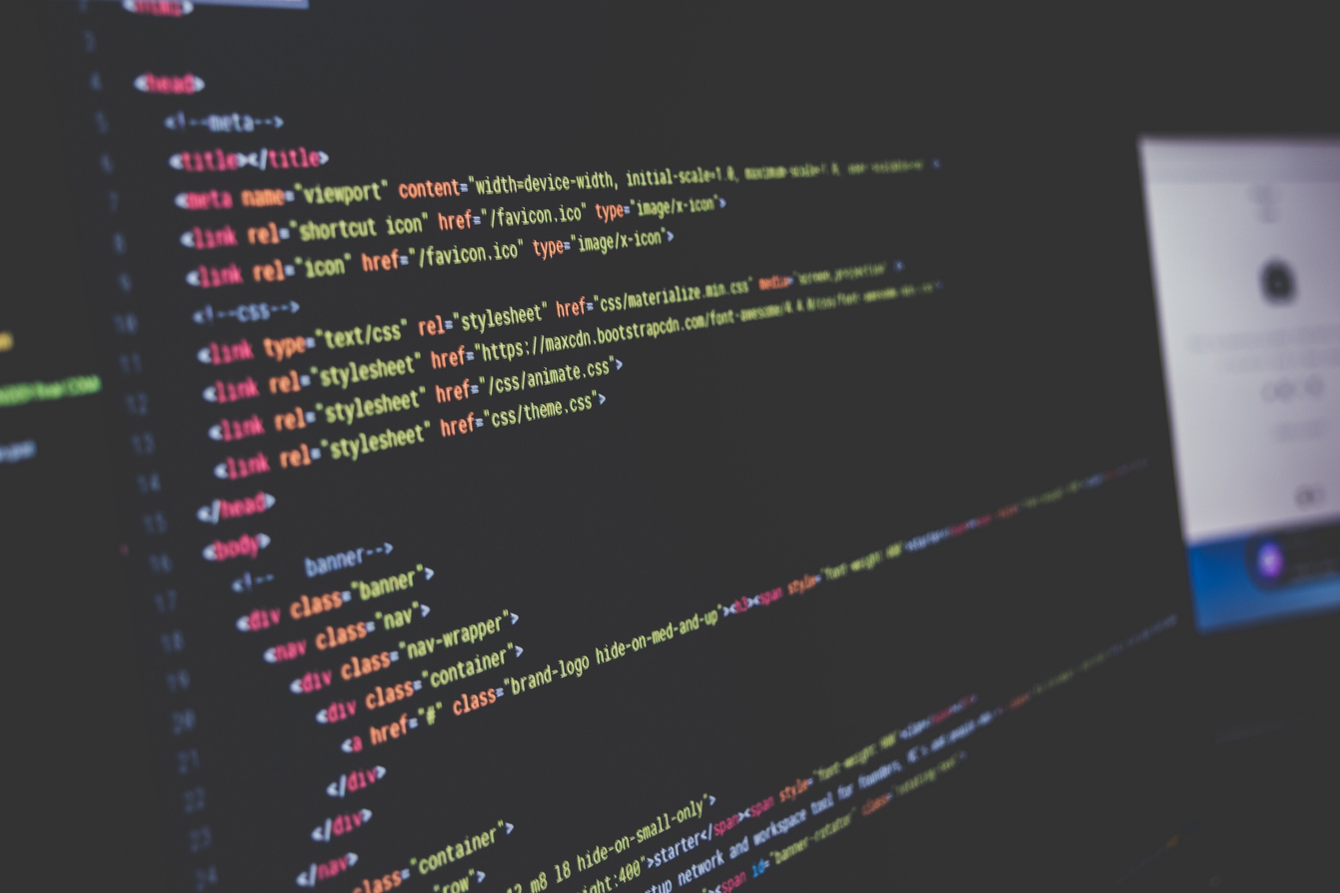
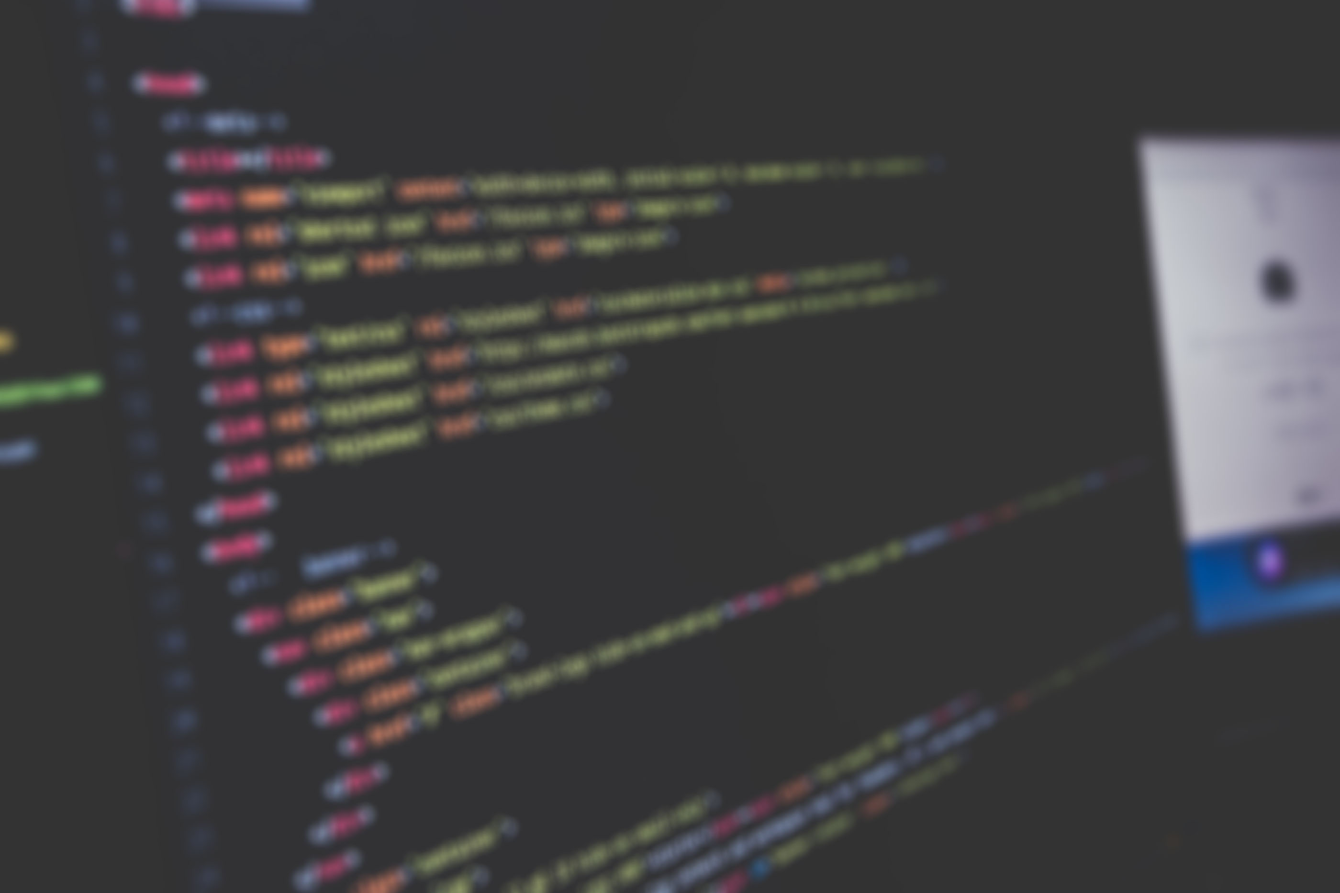
Enhancements
- Added collapse toggles for each section.
- Blurred some images to make text easier to read.

diff --git a/assets/css/styles.min.css b/assets/css/styles.min.css
@@ -1,1 +1,1 @@
-.article-clean{color:#56585b;background-color:#fff;font-family:Lora,serif;font-size:14px}.article-clean .intro{font-size:16px;margin:0 auto 30px}.article-clean .intro h1{font-size:32px;margin-bottom:15px;padding-top:20px;line-height:1.5;color:inherit;margin-top:20px}.article-clean .intro p{color:#929292;font-size:12px}.article-clean .intro p .by{font-style:italic}.article-clean .intro p .date{text-transform:uppercase;padding:4px 0 4px 10px;margin-left:10px;border-left:1px solid #ddd}.article-clean .intro p a{color:#333;text-transform:uppercase;padding-left:3px}.article-clean .intro img{margin-top:20px}.article-clean .text p{margin-bottom:20px;line-height:1.45}.article-clean .text h2{margin-top:28px;margin-bottom:20px;line-height:1.45;font-size:16px;font-weight:700;color:#333}.article-clean .text figure{text-align:center;margin-top:30px;margin-bottom:20px}.article-clean .text figure img{margin-bottom:12px;max-width:100%}.card-img-top{width:100%;height:15vw;object-fit:cover}#myFooter{padding-top:32px;flex:0 0 auto;-webkit-flex:0 0 auto}#myFooter .footer-copyright{margin-bottom:35px;text-align:center;color:#777}#myFooter ul{list-style-type:none;padding:0;margin-bottom:18px}#myFooter a{color:#282b2d;font-size:18px}#myFooter li{display:inline-block;margin:0 15px;line-height:2}#myFooter .footer-social{text-align:center;padding-top:25px;padding-bottom:25px;background-color:#eee}#myFooter .fa{font-size:36px;margin-right:15px;margin-left:20px;background-color:#fff;color:#d0d0d0;border-radius:51%;padding:10px;height:60px;width:60px;text-align:center;line-height:43px;text-decoration:none;transition:color .2s}#myFooter .fa-facebook:focus,#myFooter .fa-facebook:hover{color:#2b55ff}#myFooter .fa-google-plus:focus,#myFooter .fa-google-plus:hover{color:red}#myFooter .fa-twitter:focus,#myFooter .fa-twitter:hover{color:#00aced}#myFooter .fa-linkedin:focus,#myFooter .fa-linkedin:hover{color:#007bb6}.footer-basic{padding:40px 0;background-color:#fff;color:#4b4c4d;border-radius:10px;margin-bottom:20px}.footer-basic ul{padding:0;list-style:none;text-align:center;font-size:18px;line-height:1.6;margin-bottom:0}.footer-basic li{padding:0 10px}.footer-basic ul a,.footer-clean ul a{color:inherit;text-decoration:none;opacity:.8}.footer-basic ul a:hover,.footer-clean ul a:hover,.team-clean .social a:hover{opacity:1}.footer-basic .social{text-align:center;padding-bottom:25px}.footer-basic .social>a{font-size:24px;width:40px;height:40px;line-height:40px;display:inline-block;text-align:center;border-radius:50%;border:1px solid #ccc;margin:0 8px;color:inherit;opacity:.75}.footer-basic .social>a:hover,.footer-clean .item.social>a:hover{opacity:.9}.footer-basic .copyright{margin-top:15px;text-align:center;font-size:13px;color:#aaa;margin-bottom:0}@media (min-width:992px){.container,.container-lg,.container-md,.container-sm{max-width:960px}}@media (min-width:576px){.container,.container-sm{max-width:540px}}.footer-clean{padding:50px 0;background-color:#fff;color:#4b4c4d}.footer-clean h3{margin-top:0;margin-bottom:12px;font-weight:700;font-size:16px}.footer-clean ul{padding:0;list-style:none;line-height:1.6;font-size:14px;margin-bottom:0}.footer-clean .item.social{text-align:right}@media (max-width:768px){.footer-clean .item.social{text-align:center}}.footer-clean .item.social>a{font-size:24px;width:40px;height:40px;line-height:40px;display:inline-block;text-align:center;border-radius:50%;border:1px solid #ccc;margin-left:10px;margin-top:22px;color:inherit;opacity:.75}.footer-clean .copyright{margin-top:14px;margin-bottom:0;font-size:13px;opacity:.6}.navigation-clean{background:#fff;padding-top:.75rem;padding-bottom:.75rem;color:#333;border-radius:0;box-shadow:none;border:none;margin-bottom:0}.navigation-clean .navbar-brand{font-weight:700;color:inherit}.navigation-clean .navbar-brand:hover{color:#222}.navigation-clean.navbar-dark .navbar-brand:hover{color:#f0f0f0}.navigation-clean .navbar-brand img{height:100%;display:inline-block;margin-right:10px;width:auto}.navigation-clean .navbar-toggler{border-color:#ddd;color:#888}.navigation-clean .navbar-toggler:focus,.navigation-clean .navbar-toggler:hover{background:0 0}.navigation-clean.navbar-dark .navbar-toggler{border-color:#555;color:#eee}.navigation-clean .form-inline,.navigation-clean .navbar-collapse{border-top-color:#ddd}.navigation-clean.navbar-dark .form-inline,.navigation-clean.navbar-dark .navbar-collapse{border-top-color:#333}.navigation-clean .navbar-nav>.active>a,.navigation-clean .navbar-nav>.show>a{background:0 0;box-shadow:none}.navigation-clean.navbar-dark .navbar-nav a.active,.navigation-clean.navbar-dark .navbar-nav a.active:focus,.navigation-clean.navbar-dark .navbar-nav a.active:hover,.navigation-clean.navbar-light .navbar-nav .nav-link.active,.navigation-clean.navbar-light .navbar-nav .nav-link.active:focus,.navigation-clean.navbar-light .navbar-nav .nav-link.active:hover{color:#8f8f8f;box-shadow:none;background:0 0;pointer-events:none}.navigation-clean.navbar .navbar-nav .nav-link{padding-left:18px;padding-right:18px}.navigation-clean.navbar-light .navbar-nav .nav-link{color:#465765}.navigation-clean.navbar-light .navbar-nav .nav-link:focus,.navigation-clean.navbar-light .navbar-nav .nav-link:hover{color:#37434d!important;background-color:transparent}.navigation-clean .navbar-nav>li>.dropdown-menu{margin-top:-5px;box-shadow:none;background-color:#fff;border-radius:2px}@media (min-width:768px){.article-clean .text p{font-size:16px}.article-clean .text h2{font-size:20px}.navigation-clean{padding-top:1rem;padding-bottom:1rem}.navigation-clean .navbar-nav .show .dropdown-menu{box-shadow:0 4px 8px rgba(0,0,0,.1)}}.navigation-clean .dropdown-menu .dropdown-item,.navigation-clean .dropdown-menu .dropdown-item:focus{line-height:2;color:#37434d}.navigation-clean .dropdown-menu .dropdown-item:focus,.navigation-clean .dropdown-menu .dropdown-item:hover{background:#eee;color:inherit}.navigation-clean.navbar-dark{background-color:#1f2021;color:#fff}.navigation-clean.navbar-dark .navbar-nav .nav-link{color:#dfe8ee}.navigation-clean.navbar-dark .navbar-nav .nav-link:focus,.navigation-clean.navbar-dark .navbar-nav .nav-link:hover{color:#fff;background-color:transparent}.navigation-clean.navbar-dark .navbar-nav>li>.dropdown-menu{background-color:#1f2021}.navigation-clean.navbar-dark .dropdown-menu .dropdown-item,.navigation-clean.navbar-dark .dropdown-menu .dropdown-item:focus{color:#f2f5f8}.navigation-clean.navbar-dark .dropdown-menu .dropdown-item:focus,.navigation-clean.navbar-dark .dropdown-menu .dropdown-item:hover{background:#363739}.projects-horizontal,.team-clean{color:#313437;background-color:#fff}.projects-horizontal p,.team-clean p{color:#7d8285}.projects-horizontal h2,.team-clean h2{font-weight:700;margin-bottom:40px;padding-top:40px;color:inherit}.projects-horizontal .intro{font-size:16px;max-width:500px;margin:0 auto 10px}.projects-horizontal .projects,.team-clean .people{padding-bottom:40px}.projects-horizontal .item{padding-top:60px;min-height:160px}.projects-horizontal .item .name{font-size:18px;font-weight:700;margin-top:10px;margin-bottom:15px;color:inherit}@media (max-width:991px){.footer-clean .item.social>a{margin-top:40px}.projects-horizontal .item .name{margin-top:22px}}.projects-horizontal .item .description{font-size:15px;margin-bottom:0}.list-inline{text-align:center}html{scroll-behavior:smooth}@media (max-width:767px){.footer-clean .item{text-align:center;padding-bottom:20px}.footer-clean .item.social>a{margin-top:10px}.navigation-clean .navbar-nav .show .dropdown-menu .dropdown-item{color:#37434d;padding-top:.8rem;padding-bottom:.8rem;line-height:1}.navigation-clean.navbar-dark .navbar-nav .show .dropdown-menu .dropdown-item{color:#fff}.projects-horizontal h2,.team-clean h2{margin-bottom:25px;padding-top:25px;font-size:24px}.projects-horizontal .item{padding-top:40px;min-height:160px}}.team-clean .intro{font-size:16px;max-width:500px;margin:0 auto}.team-clean .intro p{margin-bottom:0}.team-clean .item{text-align:center;padding-top:50px}.team-clean .item .name{font-weight:700;margin-top:28px;margin-bottom:8px;color:inherit}.team-clean .item .title{text-transform:uppercase;font-weight:700;color:#d0d0d0;letter-spacing:2px;font-size:13px}.team-clean .item .description{font-size:15px;margin-top:15px;margin-bottom:20px}.team-clean .item img{max-width:160px}.team-clean .social{font-size:18px;color:#a2a8ae}.team-clean .social a{color:inherit;margin:0 10px;display:inline-block;opacity:.7}@media (min-width:1200px){.container,.container-lg,.container-md,.container-sm,.container-xl{max-width:1140px}}
+.article-clean{color:#56585b;background-color:#fff;font-family:Lora,serif;font-size:14px}.article-clean .intro{font-size:16px;margin:0 auto 30px}.article-clean .intro h1{font-size:32px;margin-bottom:15px;padding-top:20px;line-height:1.5;color:inherit;margin-top:20px}.article-clean .intro p{color:#929292;font-size:12px}.article-clean .intro p .by{font-style:italic}.article-clean .intro p .date{text-transform:uppercase;padding:4px 0 4px 10px;margin-left:10px;border-left:1px solid #ddd}.article-clean .intro p a{color:#333;text-transform:uppercase;padding-left:3px}.article-clean .intro img{margin-top:20px}.article-clean .text p{margin-bottom:20px;line-height:1.45}.article-clean .text h2{margin-top:28px;margin-bottom:20px;line-height:1.45;font-size:16px;font-weight:700;color:#333}.article-clean .text figure{text-align:center;margin-top:30px;margin-bottom:20px}.article-clean .text figure img{margin-bottom:12px;max-width:100%}.card-img-top{width:100%;height:15vw;object-fit:cover}#myFooter{padding-top:32px;flex:0 0 auto;-webkit-flex:0 0 auto}#myFooter .footer-copyright{margin-bottom:35px;text-align:center;color:#777}#myFooter ul{list-style-type:none;padding:0;margin-bottom:18px}#myFooter a{color:#282b2d;font-size:18px}#myFooter li{display:inline-block;margin:0 15px;line-height:2}#myFooter .footer-social{text-align:center;padding-top:25px;padding-bottom:25px;background-color:#eee}#myFooter .fa{font-size:36px;margin-right:15px;margin-left:20px;background-color:#fff;color:#d0d0d0;border-radius:51%;padding:10px;height:60px;width:60px;text-align:center;line-height:43px;text-decoration:none;transition:color .2s}#myFooter .fa-facebook:focus,#myFooter .fa-facebook:hover{color:#2b55ff}#myFooter .fa-google-plus:focus,#myFooter .fa-google-plus:hover{color:red}#myFooter .fa-twitter:focus,#myFooter .fa-twitter:hover{color:#00aced}#myFooter .fa-linkedin:focus,#myFooter .fa-linkedin:hover{color:#007bb6}.footer-basic{padding:40px 0;background-color:#fff;color:#4b4c4d;border-radius:10px;margin-bottom:20px}.footer-basic ul{padding:0;list-style:none;text-align:center;font-size:18px;line-height:1.6;margin-bottom:0}.footer-basic li{padding:0 10px}.footer-basic ul a,.footer-clean ul a{color:inherit;text-decoration:none;opacity:.8}.footer-basic ul a:hover,.footer-clean ul a:hover,.team-clean .social a:hover{opacity:1}.footer-basic .social{text-align:center;padding-bottom:25px}.footer-basic .social>a{font-size:24px;width:40px;height:40px;line-height:40px;display:inline-block;text-align:center;border-radius:50%;border:1px solid #ccc;margin:0 8px;color:inherit;opacity:.75}.footer-basic .social>a:hover,.footer-clean .item.social>a:hover{opacity:.9}.footer-basic .copyright{margin-top:15px;text-align:center;font-size:13px;color:#aaa;margin-bottom:0}@media (min-width:992px){.container,.container-lg,.container-md,.container-sm{max-width:960px}}@media (min-width:576px){.container,.container-sm{max-width:540px}}.footer-clean{padding:50px 0;background-color:#fff;color:#4b4c4d}.footer-clean h3{margin-top:0;margin-bottom:12px;font-weight:700;font-size:16px}.footer-clean ul{padding:0;list-style:none;line-height:1.6;font-size:14px;margin-bottom:0}.footer-clean .item.social{text-align:right}@media (max-width:768px){.footer-clean .item.social{text-align:center}}.footer-clean .item.social>a{font-size:24px;width:40px;height:40px;line-height:40px;display:inline-block;text-align:center;border-radius:50%;border:1px solid #ccc;margin-left:10px;margin-top:22px;color:inherit;opacity:.75}.footer-clean .copyright{margin-top:14px;margin-bottom:0;font-size:13px;opacity:.6}.navigation-clean{background:#fff;padding-top:.75rem;padding-bottom:.75rem;color:#333;border-radius:0;box-shadow:none;border:none;margin-bottom:0}.navigation-clean .navbar-brand{font-weight:700;color:inherit}.navigation-clean .navbar-brand:hover{color:#222}.navigation-clean.navbar-dark .navbar-brand:hover{color:#f0f0f0}.navigation-clean .navbar-brand img{height:100%;display:inline-block;margin-right:10px;width:auto}.navigation-clean .navbar-toggler{border-color:#ddd;color:#888}.navigation-clean .navbar-toggler:focus,.navigation-clean .navbar-toggler:hover{background:0 0}.navigation-clean.navbar-dark .navbar-toggler{border-color:#555;color:#eee}.navigation-clean .form-inline,.navigation-clean .navbar-collapse{border-top-color:#ddd}.navigation-clean.navbar-dark .form-inline,.navigation-clean.navbar-dark .navbar-collapse{border-top-color:#333}.navigation-clean .navbar-nav>.active>a,.navigation-clean .navbar-nav>.show>a{background:0 0;box-shadow:none}.navigation-clean.navbar-dark .navbar-nav a.active,.navigation-clean.navbar-dark .navbar-nav a.active:focus,.navigation-clean.navbar-dark .navbar-nav a.active:hover,.navigation-clean.navbar-light .navbar-nav .nav-link.active,.navigation-clean.navbar-light .navbar-nav .nav-link.active:focus,.navigation-clean.navbar-light .navbar-nav .nav-link.active:hover{color:#8f8f8f;box-shadow:none;background:0 0;pointer-events:none}.navigation-clean.navbar .navbar-nav .nav-link{padding-left:18px;padding-right:18px}.navigation-clean.navbar-light .navbar-nav .nav-link{color:#465765}.navigation-clean.navbar-light .navbar-nav .nav-link:focus,.navigation-clean.navbar-light .navbar-nav .nav-link:hover{color:#37434d!important;background-color:transparent}.navigation-clean .navbar-nav>li>.dropdown-menu{margin-top:-5px;box-shadow:none;background-color:#fff;border-radius:2px}@media (min-width:768px){.article-clean .text p{font-size:16px}.article-clean .text h2{font-size:20px}.navigation-clean{padding-top:1rem;padding-bottom:1rem}.navigation-clean .navbar-nav .show .dropdown-menu{box-shadow:0 4px 8px rgba(0,0,0,.1)}}.navigation-clean .dropdown-menu .dropdown-item,.navigation-clean .dropdown-menu .dropdown-item:focus{line-height:2;color:#37434d}.navigation-clean .dropdown-menu .dropdown-item:focus,.navigation-clean .dropdown-menu .dropdown-item:hover{background:#eee;color:inherit}.navigation-clean.navbar-dark{background-color:#1f2021;color:#fff}.navigation-clean.navbar-dark .navbar-nav .nav-link{color:#dfe8ee}.navigation-clean.navbar-dark .navbar-nav .nav-link:focus,.navigation-clean.navbar-dark .navbar-nav .nav-link:hover{color:#fff;background-color:transparent}.navigation-clean.navbar-dark .navbar-nav>li>.dropdown-menu{background-color:#1f2021}.navigation-clean.navbar-dark .dropdown-menu .dropdown-item,.navigation-clean.navbar-dark .dropdown-menu .dropdown-item:focus{color:#f2f5f8}.navigation-clean.navbar-dark .dropdown-menu .dropdown-item:focus,.navigation-clean.navbar-dark .dropdown-menu .dropdown-item:hover{background:#363739}.projects-horizontal,.team-clean{color:#313437;background-color:#fff}.projects-horizontal p,.team-clean p{color:#7d8285}.projects-horizontal h2,.team-clean h2{font-weight:700;margin-bottom:40px;padding-top:40px;color:inherit}.projects-horizontal .intro{font-size:16px;max-width:500px;margin:0 auto 10px}.projects-horizontal .projects,.team-clean .people{padding-bottom:40px}.projects-horizontal .item{padding-top:60px;min-height:160px}.projects-horizontal .item .name{font-size:18px;font-weight:700;margin-top:10px;margin-bottom:15px;color:inherit}@media (max-width:991px){.footer-clean .item.social>a{margin-top:40px}.projects-horizontal .item .name{margin-top:22px}}.projects-horizontal .item .description{font-size:15px;margin-bottom:0}.list-inline{text-align:center}html{scroll-behavior:smooth}@media (max-width:767px){.footer-clean .item{text-align:center;padding-bottom:20px}.footer-clean .item.social>a{margin-top:10px}.navigation-clean .navbar-nav .show .dropdown-menu .dropdown-item{color:#37434d;padding-top:.8rem;padding-bottom:.8rem;line-height:1}.navigation-clean.navbar-dark .navbar-nav .show .dropdown-menu .dropdown-item{color:#fff}.projects-horizontal h2,.team-clean h2{margin-bottom:25px;padding-top:25px;font-size:24px}.projects-horizontal .item{padding-top:40px;min-height:160px}}.team-clean .intro{font-size:16px;max-width:500px;margin:0 auto}.team-clean .intro p{margin-bottom:0}.team-clean .item{text-align:center;padding-top:50px}.team-clean .item .name{font-weight:700;margin-top:28px;margin-bottom:8px;color:inherit}.team-clean .item .title{text-transform:uppercase;font-weight:700;color:#d0d0d0;letter-spacing:2px;font-size:13px}.team-clean .item .description{font-size:15px;margin-top:15px;margin-bottom:20px}.team-clean .item img{max-width:160px}.team-clean .social{font-size:18px;color:#a2a8ae}.team-clean .social a{color:inherit;margin:0 10px;display:inline-block;opacity:.7}@media (min-width:1200px){.container,.container-lg,.container-md,.container-sm,.container-xl{max-width:1140px}}input:checked+.slider{background-color:#2196f3}input:checked+.slider:before{-webkit-transform:translateX(26px);-ms-transform:translateX(26px);transform:translateX(26px)}.switch{position:relative;display:inline-block;width:60px;height:34px}.switch input{display:none}.slider{position:absolute;cursor:pointer;top:0;left:0;right:0;bottom:0;background-color:#ccc;-webkit-transition:.4s;transition:.4s}.slider:before{position:absolute;content:"";height:26px;width:26px;left:4px;bottom:4px;background-color:#fff;-webkit-transition:.4s;transition:.4s}input:focus+.slider{box-shadow:0 0 1px #2196f3}.slider.round{border-radius:34px}.slider.round:before{border-radius:50%}

diff --git a/index.html b/index.html
@@ -23,17 +23,18 @@
     <link rel="stylesheet" href="https://fonts.googleapis.com/css?family=Lora">
     <link rel="stylesheet" href="assets/fonts/font-awesome.min.css">
     <link rel="stylesheet" href="assets/css/styles.min.css">
+    <link rel="stylesheet" href="https://cdn.jsdelivr.net/gh/gitbrent/bootstrap4-toggle@3.5.0/css/bootstrap4-toggle.min.css">
     <link rel="stylesheet" href="https://cdnjs.cloudflare.com/ajax/libs/animate.css/3.5.2/animate.min.css">
 </head>
 
 <body style="background-color: rgb(232,232,232);">
     <div class="container" style="padding-right: 0px;padding-left: 0px;">
-        <nav class="navbar navbar-light navbar-expand-xl bg-light navigation-clean" style="border-radius: 10px;">
+        <nav class="navbar navbar-light navbar-expand-xl bg-light navigation-clean" style="border-radius: 10px;margin-top: 10px;">
             <div class="container"><a class="navbar-brand" href="#">Jake Humphreys</a><button data-toggle="collapse" class="navbar-toggler" data-target="#navcol-1"><span class="sr-only">Toggle navigation</span><span class="navbar-toggler-icon"></span></button>
                 <div class="collapse navbar-collapse"
                     id="navcol-1">
                     <ul class="nav navbar-nav ml-auto">
-                        <li class="nav-item" role="presentation"><a class="nav-link active" href="#">Home</a></li>
+                        <li class="nav-item" role="presentation"><a class="nav-link active" href="#home">Home</a></li>
                         <li class="nav-item" role="presentation"></li>
                         <li class="nav-item" role="presentation"><a class="nav-link" href="#workExperience">Work Experience</a></li>
                         <li class="nav-item" role="presentation"><a class="nav-link" href="#skills">Skills</a></li>
@@ -43,37 +44,43 @@
                 </div>
             </div>
         </nav>
-        <div class="jumbotron text-center text-light" style="background: url(assets/img/blurredCode2.jpg);background-size: cover;margin-top: 20px;padding-right: 0px;padding-left: 0px;"><img class="img-thumbnail" src="assets/img/110158651_3415583811796938_8004684361192355891_o.jpg" style="width: 200px;">
+        <div class="jumbotron text-center text-light" id="home" style="background: url(assets/img/blurredCode2.jpg);background-size: cover;margin-top: 20px;padding-right: 0px;padding-left: 0px;"><img class="img-thumbnail" src="assets/img/110158651_3415583811796938_8004684361192355891_o.jpg" style="width: 200px;">
             <h1>Hi, I'm Jake</h1>
             <p>A software engineering student and developer from Stoke on Trent, England.</p>
             <p></p>
         </div>
     </div>
     <div class="team-clean" style="background-color: rgb(232,232,232);">
-        <div class="container text-body" id="workExperience" style="background: url(assets/img/blurredLaptop.jpg);border-radius: 10px;/*max-width: none;*//*padding-right: 15px;*//*padding-left: 15px;*/">
+        <div class="container text-body" id="workExperience" style="background: url(assets/img/blurredLaptop.jpg);border-radius: 10px;/*max-width: none;*//*padding-right: 15px;*//*padding-left: 15px;*/background-size: cover;margin-bottom: 20px;">
             <div class="intro">
                 <h2 class="text-center text-white" style="margin-bottom: 0px;">Work Experience</h2>
             </div>
             <hr style="color: #f2f5f8;background-color: #f0f0f0;">
-            <div class="row people" style="background-color: #d0d0d0;padding-top: 20px;border-radius: 0;border-bottom-left-radius: 10px;border-bottom-right-radius: 10px;margin-bottom: 40px;">
+            <p style="margin-bottom: 5px;color: #ffffff;">Show content<input type="checkbox" checked="" data-toggle="collapse" data-onstyle="success" data-offstyle="danger" data-on="Yes" data-off="No" data-target="#workExperienceContent" style="margin-left: 10px;"></p>
+            <div class="row people collapse show"
+                id="workExperienceContent" style="background-color: #d0d0d0;padding-top: 20px;border-radius: 0;border-bottom-left-radius: 10px;border-bottom-right-radius: 10px;margin-bottom: 40px;">
                 <div class="col-md-6 col-lg-4 offset-md-3 offset-lg-4 offset-xl-4 item" data-bs-hover-animate="pulse" style="background-color: #ffffff;border-radius: 10px;box-shadow: 5px 5px 7px rgb(140,142,143);"><img class="img-thumbnail" src="assets/img/fhl_logo.png">
                     <h3 class="name">FHL Cloud Solutions, Crewe</h3>
                     <p class="text-primary title">Developer</p>
-                    <p class="text-center description" style="text-align: center;">At FHL Cloud Solutions my responsibilities included:<br><br>•&nbsp;Development for NetSuite, A cloud based ERP.<br>• Scheduling and performing product releases.<br>• Proof of concept development in Xamarin.<br>• ISO 9001 and ISO 27001
-                        auditing.<br>• Support case review and closure.<br>• Implementing enhancement requests.<br></p><a href="https://www.fhl.co.uk" style="text-align: center;margin-bottom: 10px;" target="_blank"><i class="fa fa-external-link" style="font-size: 20px;color: rgb(189,191,193);"></i></a></div>
+                    <p class="text-center description" style="text-align: center;">At FHL Cloud Solutions my responsibilities included:<br><br>•&nbsp;Development for NetSuite, A cloud based ERP.<br>•&nbsp; Back-end development in JavaScript<br>• Scheduling and performing product releases.<br>• Proof of concept development
+                        in Xamarin.<br>• ISO 9001 and ISO 27001 auditing.<br>• Support case review and closure.<br>• Implementing enhancement requests.<br>• Product Documentation.<br></p><a href="https://www.fhl.co.uk" style="text-align: center;margin-bottom: 10px;"
+                        target="_blank"><i class="fa fa-external-link" style="font-size: 20px;color: rgb(189,191,193);"></i></a></div>
+                <div class="clearfix"></div>
             </div>
         </div>
     </div>
-    <div class="container text-body" id="skills" style="border-radius: 10px;background: url(assets/img/blurredKeyboard.png);background-size: cover;">
+    <div class="container text-body" id="skills" style="border-radius: 10px;background: url(assets/img/blurredKeyboard.png);background-size: cover;margin-bottom: 20px;">
         <div class="intro">
             <h2 class="text-center text-white" style="max-width: 1110px;"><br>Skills</h2>
         </div>
         <hr style="color: #f2f5f8;background-color: #f0f0f0;">
-        <div class="row people" style="background-color: #d0d0d0;padding-top: 20px;border-radius: 0;border-bottom-left-radius: 10px;border-bottom-right-radius: 10px;margin-bottom: 40px;text-align: center;">
-            <div class="col-xl-3" data-bs-hover-animate="pulse" style="margin-bottom: 20px;text-align: center;background-color: #ffffff;border-radius: 10px;padding: 10px;margin-left: 46px;margin-right: 46px;box-shadow: 5px 5px 7px rgb(140,142,143);"><img class="rounded img-fluid" src="assets/img/bootstrap.png" width="100" height="100">
+        <p style="margin-bottom: 5px;color: #ffffff;">Show content<input type="checkbox" checked="" data-toggle="collapse" data-onstyle="success" data-offstyle="danger" data-on="Yes" data-off="No" data-target="#skillsContent" style="margin-left: 10px;"></p>
+        <div class="row people collapse show" id="skillsContent"
+            style="background-color: #d0d0d0;padding-top: 20px;border-radius: 0;border-bottom-left-radius: 10px;border-bottom-right-radius: 10px;margin-bottom: 40px;text-align: center;">
+            <div class="col-xl-3" data-bs-hover-animate="pulse" style="margin-bottom: 20px;text-align: center;background-color: #ffffff;border-radius: 10px;padding: 10px;margin-left: 46px;box-shadow: 5px 5px 7px rgb(140,142,143);margin-right: 46px;"><img class="rounded img-fluid" src="assets/img/bootstrap.png" width="100" height="100">
                 <p class="lead text-capitalize shadow" style="margin-top: 10px;background-color: #f5f5f5;border-radius: 10px;"><strong>Bootstrap 4</strong></p>
             </div>
-            <div class="col-xl-3" data-bs-hover-animate="pulse" style="margin-bottom: 20px;text-align: center;background-color: #ffffff;border-radius: 10px;padding: 10px;margin-left: 46px;margin-right: 46px;box-shadow: 5px 5px 7px rgb(140,142,143);"><img class="rounded img-fluid" src="assets/img/html5.png" width="100" height="100">
+            <div class="col-xl-3" data-bs-hover-animate="pulse" style="margin-bottom: 20px;text-align: center;background-color: #ffffff;border-radius: 10px;padding: 10px;margin-right: 46px;box-shadow: 5px 5px 7px rgb(140,142,143);margin-left: 46px;"><img class="rounded img-fluid" src="assets/img/html5.png" width="100" height="100">
                 <p class="lead text-capitalize shadow" style="margin-top: 10px;background-color: #f5f5f5;border-radius: 10px;"><strong>HTML5</strong></p>
             </div>
             <div class="col-xl-3" data-bs-hover-animate="pulse" style="margin-bottom: 20px;text-align: center;background-color: #ffffff;border-radius: 10px;padding: 10px;margin-left: 46px;margin-right: 46px;box-shadow: 5px 5px 7px rgb(140,142,143);"><img class="rounded img-fluid" src="assets/img/css3.png" width="100" height="100">
@@ -99,12 +106,14 @@
             </div>
         </div>
     </div>
-    <div class="container text-body" id="projects" style="border-radius: 10px;background: url(assets/img/blurredCode3.png) top / cover;">
+    <div class="container text-body" id="projects" style="border-radius: 10px;background: url(assets/img/blurredCode3.png) top / cover;margin-bottom: 20px;">
         <div class="intro">
             <h2 class="text-center text-white" style="max-width: 1110px;"><br>Projects</h2>
         </div>
         <hr style="color: #f2f5f8;background-color: #f0f0f0;">
-        <div class="row people" style="background-color: #d0d0d0;padding-top: 20px;border-radius: 0;border-bottom-left-radius: 10px;border-bottom-right-radius: 10px;margin-bottom: 40px;">
+        <p style="margin-bottom: 5px;color: #ffffff;">Show content<input type="checkbox" checked="" data-toggle="collapse" data-onstyle="success" data-offstyle="danger" data-on="Yes" data-off="No" data-target="#projectsContent" style="margin-left: 10px;"></p>
+        <div class="row people collapse show"
+            id="projectsContent" style="background-color: #d0d0d0;padding-top: 20px;border-radius: 0;border-bottom-left-radius: 10px;border-bottom-right-radius: 10px;margin-bottom: 40px;">
             <div class="col" style="margin-bottom: 20px;">
                 <div class="card-group">
                     <div class="card"><img class="img-thumbnail img-fluid card-img-top w-100 d-block visible" src="assets/img/blurredCode.png">
@@ -121,12 +130,14 @@
             </div>
         </div>
     </div>
-    <div class="container text-body" id="contact" style="border-radius: 10px;background: url(assets/img/blurredCode.png);">
+    <div class="container text-body" id="contact" style="border-radius: 10px;background: url(assets/img/blurredCode.png);margin-bottom: 20px;">
         <div class="intro">
             <h2 class="text-center text-white" style="max-width: 1110px;"><br>Contact</h2>
         </div>
         <hr style="color: #f2f5f8;background-color: #f0f0f0;">
-        <div class="row people" style="background-color: #d0d0d0;padding-top: 20px;border-radius: 0;border-bottom-left-radius: 10px;border-bottom-right-radius: 10px;margin-bottom: 40px;">
+        <p style="margin-bottom: 5px;color: #ffffff;">Show content<input type="checkbox" checked="" data-toggle="collapse" data-onstyle="success" data-offstyle="danger" data-on="Yes" data-off="No" data-target="#contactContent" style="margin-left: 10px;"></p>
+        <div class="row people collapse show" id="contactContent"
+            style="background-color: #d0d0d0;padding-top: 20px;border-radius: 0;border-bottom-left-radius: 10px;border-bottom-right-radius: 10px;margin-bottom: 40px;">
             <div class="col">
                 <div class="jumbotron" style="text-align: center;background-color: #ffffff;border-radius: 10px;">
                     <h1>Get in touch</h1>
@@ -145,6 +156,7 @@
     </div>
     <script src="assets/js/jquery.min.js"></script>
     <script src="assets/bootstrap/js/bootstrap.min.js"></script>
+    <script src="https://cdn.jsdelivr.net/gh/gitbrent/bootstrap4-toggle@3.5.0/js/bootstrap4-toggle.min.js"></script>
     <script src="assets/js/script.min.js"></script>
 </body>
 
